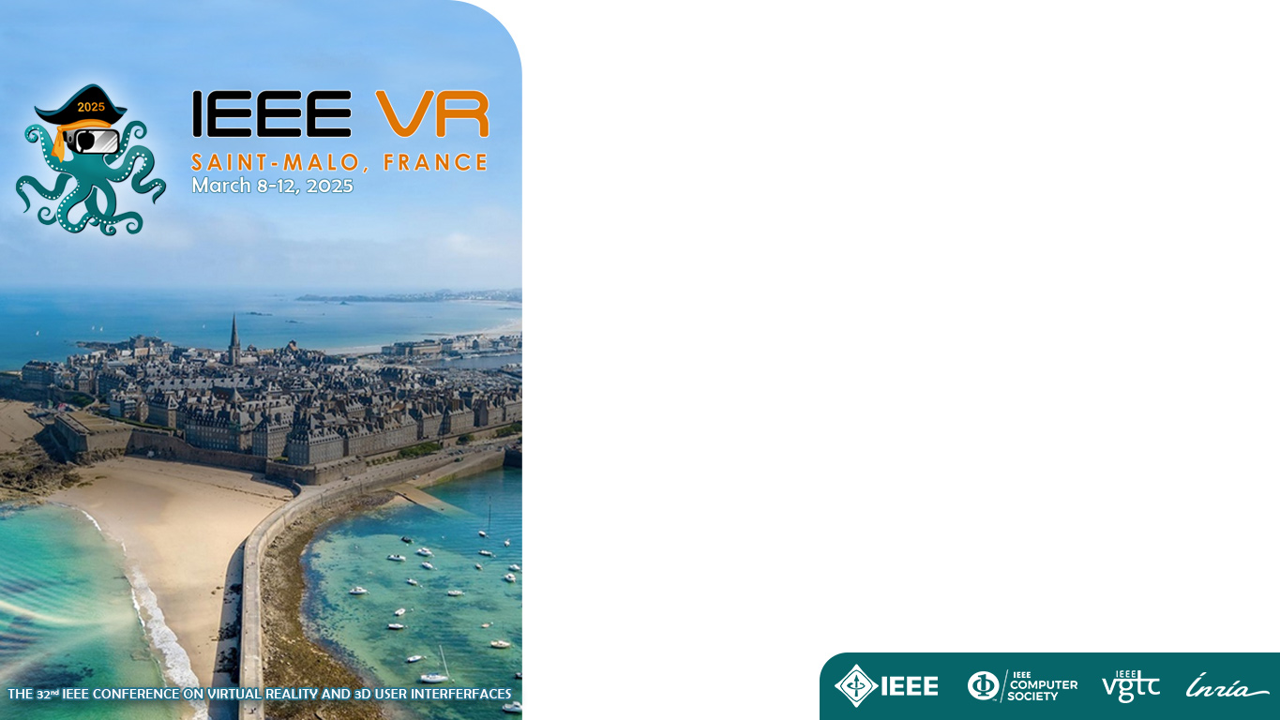
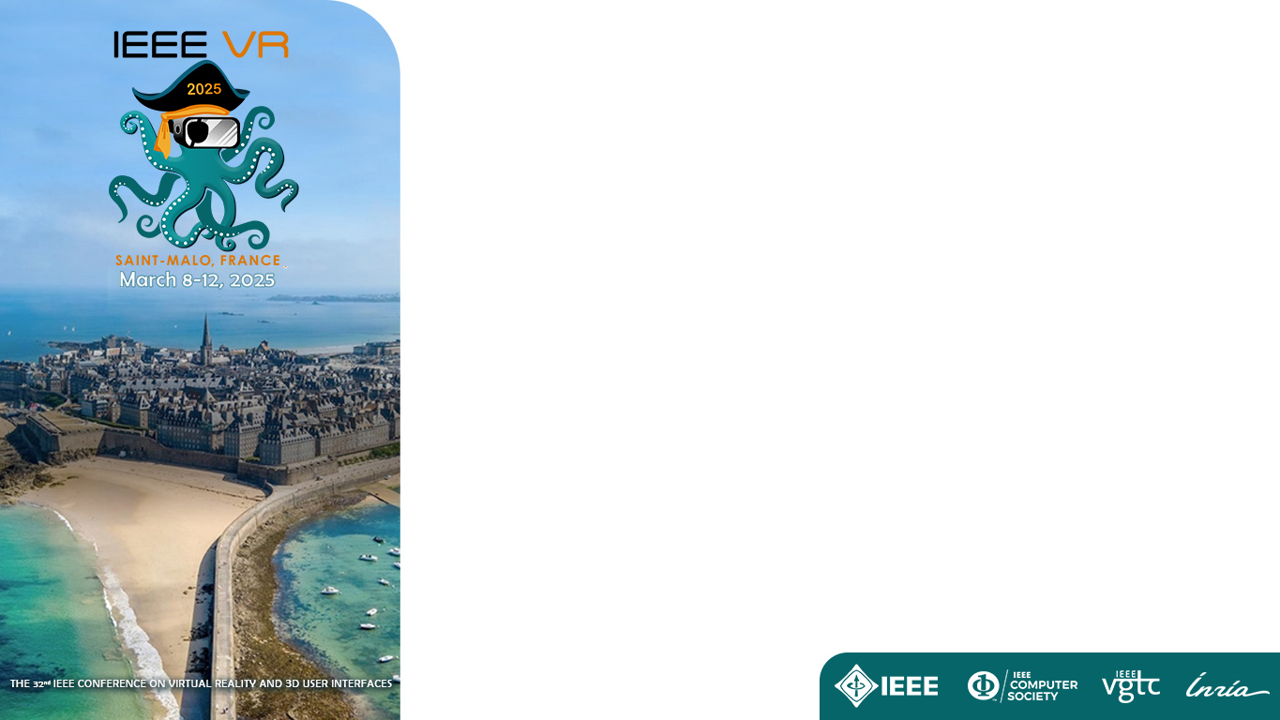
Modifications to Resources pages and menu size

Changed region(s): [[0.0, 0.0, 0.4062, 1.0]]

diff --git a/resources/logos/index.html b/resources/logos/index.html
@@ -8,7 +8,7 @@ title_separator: "|"
 <h1 id="resources"> IEEE VR 2025 Conference Logos </h1>
 <div class="resource_outer_div">
 	<div class="resource_inner_div">
-		<img src={{ "/assets/images/IEEEVR_2025_Logo.png" | relative_url }} alt="The IEEE VR 2024 Logo"><br />
+		<img src={{ "/assets/images/IEEEVR_2025_Logo.png" | relative_url } style="flex: 1 1 25%; max-width: 25%; height: auto;"} alt="The IEEE VR 2024 Logo"><br />
 		<a href={{ "/assets/images/IEEEVR_2025_Logo.png" | relative_url }}>JPG: The IEEE VR 2024 Logo</a>
 	</div>
 	<div class="resource_inner_div">

diff --git a/assets/css/styles.css b/assets/css/styles.css
@@ -12,7 +12,7 @@
         background-color: #066569;  
         border-radius: 0px 0px 40px 40px;  
         color: white; 
-        padding-left: 35px;  
+        padding-left: 5px;  
         margin-bottom: 20px;
         cursor: pointer;
     }

diff --git a/program/VRLab-tour/index.md b/program/VRLab-tour/index.md
@@ -26,8 +26,9 @@ title_separator: "|"
 		swan.innerHTML  = "<span class='text-nowrap'><a href=javascript:location='" + "mail" + "to:" + email + "@" + domain + "'><i class='fas fa-fw fa-envelope-square emailIcon' style=''></i><i class='emailText'>" + email + "@" + domain + "</a></i></span>";
 	});
 </script>
-<div>
+<h1>VR Lab tour<div class="floatRight"><span id="register"></span></div></h1>
     <h1>VR Lab tour<div class="floatRight"><span class="eventconductSm"></span></div></h1>
+<div>
     <p>
         The VR Lab tour is planned the day before the conference, on March 7th between 1:30pm  and 5:30pm, in the city of Rennes, which is located 1 hour by bus from Saint-Malo. A specific registration (done through the conference registration system) is required and it is limited to 100 places only. At the end of the visit, all attendants will be given the possibility to be taken to Saint-Malo by bus (estimated arrival to Saint-Malo at 7pm).
     </p>
